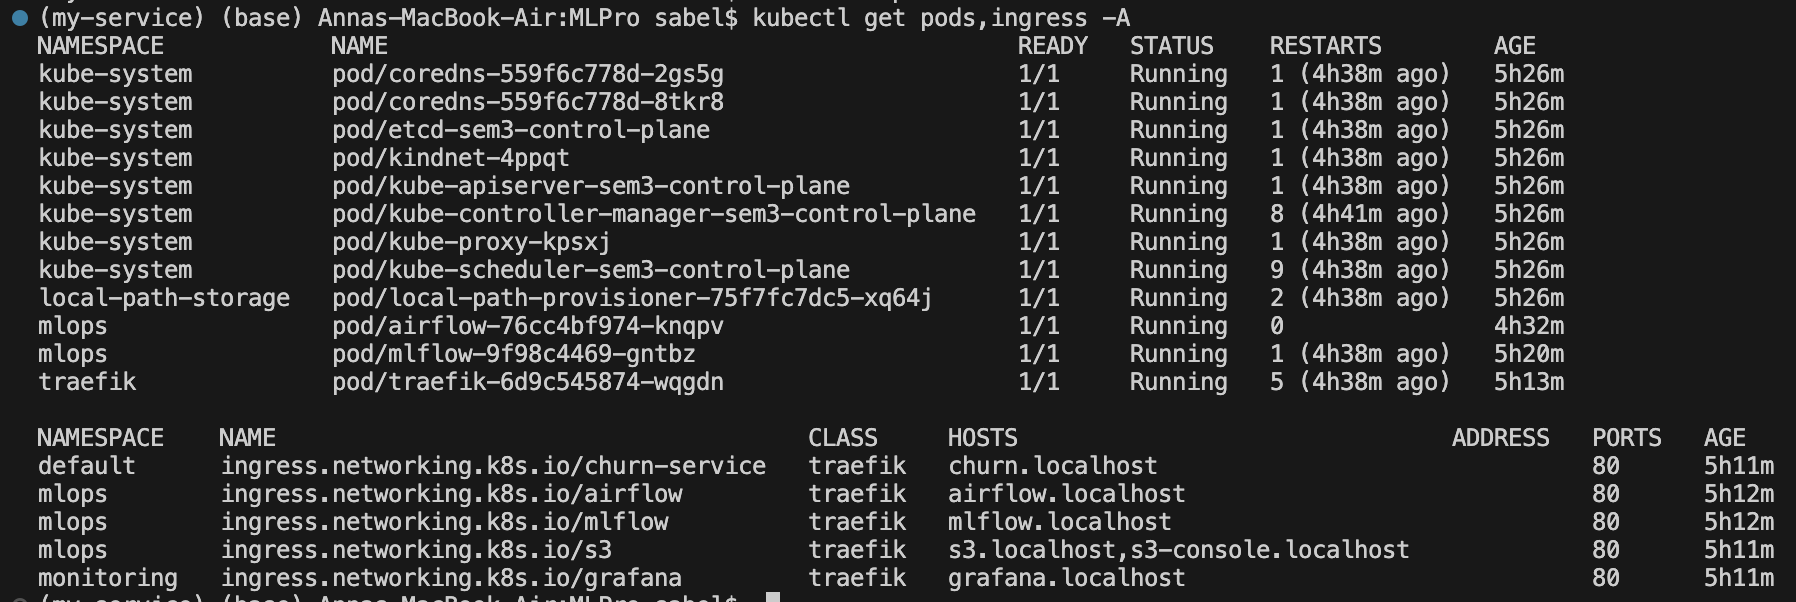
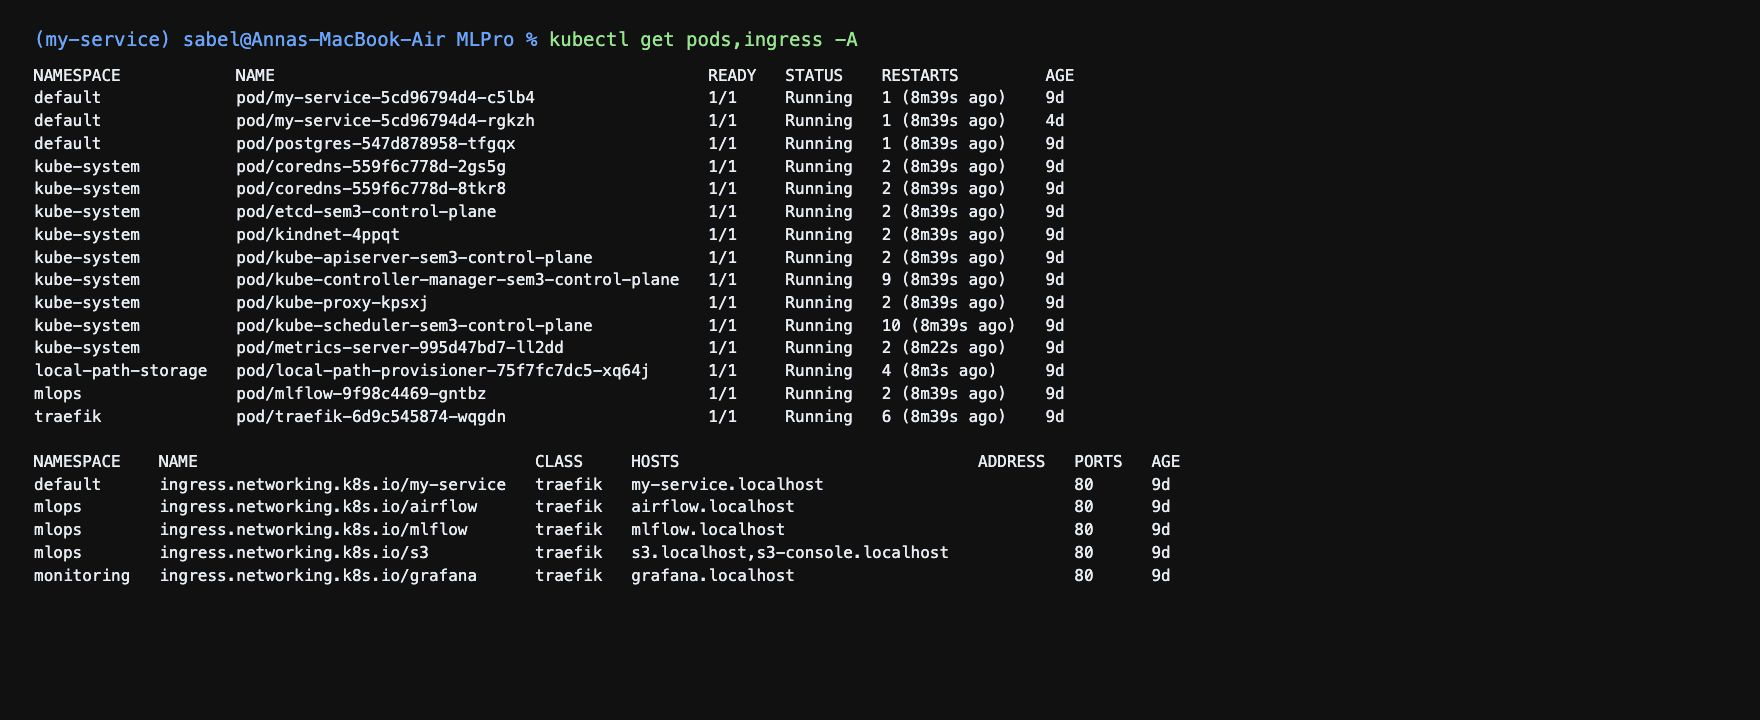
fixes

Changed region(s): [[0.0, 0.0, 0.875, 1.0], [0.8125, 0.6877, 1.0, 0.9867]]

diff --git a/README3.md b/README3.md
@@ -16,7 +16,9 @@
 | 2.6. 10 пользователей, 60 с | [Замеры](artifacts/hw3/hpa/results.json) | Реплик 2–4; p95 **79 мс**; CPU/под в среднем **214m**, диапазон 66–751m; память 291–395 МиБ; ошибок 0. |
 | 2.6. 30 пользователей, 120 с | [Замеры](artifacts/hw3/hpa/results.json) | Реплик 4; p95 **28 мс**; CPU/под в среднем **91m**, диапазон 41–154m; память 292–325 МиБ; ошибок 0. |
 | 2.6. 60 пользователей, 240 с | [Замеры](artifacts/hw3/hpa/results.json) | Реплик 4; p95 **34 мс**; CPU/под в среднем **126m**, диапазон 65–183m; память 296–335 МиБ; ошибок 0. |
-| 2.7. Три поломки и починки | [Инцидент GitHub Actions](https://www.githubstatus.com/) | Пока не выполнено. 05.10.2026 job `tests` в PR #16 более 15 минут ожидал hosted runner (`ubuntu-latest`). С 22:11 МСК GitHub сообщил о деградации Actions; возможная причина задержки (images/hw3/github_actions_incident.png). |
+| 2.7. Три поломки и починки | [Инцидент GitHub Actions](https://www.githubstatus.com/), [скрин](images/hw3/github_actions_incident.png) | Пока не выполнено. 05.10.2026 job `tests` в PR #16 более 15 минут ожидал hosted runner (`ubuntu-latest`). С 22:11 МСК GitHub сообщил о деградации Actions; возможная причина задержки. |
+
+Для гейта выбрана **validation F1**, потому что целевой класс важнее общей доли правильных ответов. При сбалансированной выборке константный ответ `1` уже даёт F1 около **0.667** — это видно на v5, поэтому дополнительно сохраняется ROC-AUC: у v5 он **0.579**, у v4 и v6 — **0.799** и **0.835**. `MIN_GAIN=0.01` не пропускает случайное улучшение на несколько тысячных; порог классификации подбирается на validation, поэтому итоговое качество отдельно приводится на test.
 
 ## Журнал проблем
 
@@ -137,13 +139,7 @@ MLFLOW_TRACKING_URI=http://mlflow.localhost EPOCHS=8 uv run python -m my_service
 
 `model_store.load_model()` получает версию по `MODEL_NAME` / `MODEL_ALIAS` и загружает модель и metadata из одного прогона. Без `MODEL_NAME` используется локальный бандл; 20 тестов без MLflow прошли. `/health` показывает загруженную версию и источник модели.
 
-Для локальной проверки собран `my-service:hw3-alias`, запущены PostgreSQL и одна реплика API. В ConfigMap кластера заданы `MODEL_NAME=my-service`, `MODEL_ALIAS=champion`, `MLFLOW_TRACKING_URI=http://mlflow.mlops.svc.cluster.local:5000`. В пункте 2.4 эти настройки применяет CI к существующему кластеру `sem3`.
-
-Локальные настройки применены к ConfigMap кластера (не к файлу):
-
-```bash
-kubectl patch configmap my-service-config --type merge -p '{"data":{"MODEL_NAME":"my-service","MODEL_ALIAS":"champion","MLFLOW_TRACKING_URI":"http://mlflow.mlops.svc.cluster.local:5000"}}'
-```
+Для локальной проверки собран `my-service:hw3-alias`, запущены PostgreSQL и одна реплика API. `MODEL_NAME=my-service`, `MODEL_ALIAS=champion` и внутренний адрес MLflow теперь записаны в [ConfigMap](k8s/configmap.yaml), который применяет CI. `MODEL_PATH` остаётся локальным fallback, когда `MODEL_NAME` не задан, например в тестах без MLflow.
 
 В **Model registry → my-service → Version 4 → Add aliases** выбран `champion`, затем подтверждён **Save aliases** клавишей Enter. Это предыдущий champion; v5 гейт не прошла. После смены алиаса выполнено:
 
@@ -166,7 +162,7 @@ curl --fail --silent http://my-service.localhost/health
 
 [Workflow](.github/workflows/ci.yml): tests и build выполняются в GitHub, deploy — в Docker-runner `sem3-kind` в сети `kind`. `workflow_dispatch` передаёт имя кластера, по умолчанию `sem3`. Образ — `ghcr.io/annansas/my-service:sha-a97c3d27b0257b12c0fb54672b0b4a75da1c890d`.
 
-Secret применяется через `--dry-run=client -o yaml | kubectl apply -f -`. Smoke идёт на `sem3-control-plane:30080` с `Host: my-service.localhost` и проверяет источник модели в `/health`, класс 1 для растущего сигнала из `example.json` и ровно одну строку в БД с полученным `request_id`.
+Secret применяется через `--dry-run=client -o yaml | kubectl apply -f -`. Smoke идёт на `sem3-control-plane:30080` с `Host: my-service.localhost`. Подготовленная проверка требует класс `1` для растущего `example.json`, класс `0` для test-окна с падающим трендом `example_negative.json`, одну версию модели в `/health` и обоих ответах и ровно по одной строке в БД для каждого `request_id`. Локально champion v4 вернула соответственно `1` со score **0.33273** и `0` со score **0.23237**; обе строки найдены в БД. Новый smoke ещё не запускался в CI.
 
 [GitHub API job](https://api.github.com/repos/AnnAnsas/MLPro/actions/jobs/111921020313) подтвердил `success`, `runner_name: sem3-kind` и успешный шаг smoke. На [скриншоте Set up job](images/hw3/deploy_runner_name.png) видна строка `Runner name: sem3-kind`. Скрин Settings → Actions → Runners показывает `sem3-kind`, Linux, ARM64, kind, статус Idle.
 
